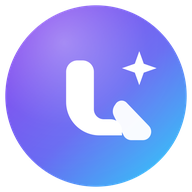
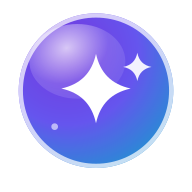
billing-revenue-protection-v109 - enterprise-release-v1094 - production-deployment-v1095 - unified-brand-identity-v1098 - orb-glow-identity-v1098-2

diff --git a/src/release/productionDeploymentReadiness.v1095.js b/src/release/productionDeploymentReadiness.v1095.js
@@ -1,0 +1,1 @@
+export function validateLandingDeployment(input={}){const routes=input.routes||['/','/pricing','/contact'];const assets=input.assets||['index.html','assets'];const errors=[];if(!routes.includes('/'))errors.push('HOME_ROUTE_MISSING');if(!assets.includes('index.html'))errors.push('INDEX_MISSING');if(input.secretExposure===true)errors.push('SECRET_EXPOSURE');return{engineVersion:'v1095',contractVersion:'2027.4',routesValidated:routes.length,assetsValidated:assets.length,widgetLoader:'READY',releaseHash:'REGISTERED',secretExposure:errors.includes('SECRET_EXPOSURE')?1:0,smokeTests:errors.length?'FAILED':'PASSED',rollbackAsset:'READY',releaseGate:errors.length?'BLOCKED':'OPEN',errors}}

diff --git a/src/release/landingObservability.v1096.js b/src/release/landingObservability.v1096.js
@@ -1,0 +1,1 @@
+export const LANDING_OBSERVABILITY={version:'v1096',contractVersion:'2027.5',signals:['pageAvailability','assetFailure','widgetLoaderFailure','formSubmissionFailure','publicApiFailure','releaseVersionMismatch'],availability:'HEALTHY',assetIntegrity:'PASSED',widgetLoader:'READY',releaseHealth:'HEALTHY'};export const evaluateLandingHealth=(x={})=>({status:(x.secretExposure||x.assetFailures||x.widgetLoaderFailures)?'DEGRADED':'HEALTHY',secretExposure:x.secretExposure||0});

diff --git a/src/release/enterpriseReleaseReadiness.v1094.js b/src/release/enterpriseReleaseReadiness.v1094.js
@@ -1,0 +1,2 @@
+export const LANDING_RELEASE={engineVersion:'v1094',contractVersion:'2027.3',releaseCandidate:'RC1',routes:'READY',assets:'READY',seo:'READY',widgetLoader:'READY',publicEnv:'READY',secretExposure:0,releaseGate:'OPEN'};
+export function validateLandingRelease(){return {...LANDING_RELEASE,status:'READY',failures:[]};}

diff --git a/src/release/billingRevenueProtection.v1097.js b/src/release/billingRevenueProtection.v1097.js
@@ -1,0 +1,1 @@
+export const billingRevenueProtection={version:"2027.6",pricingTransparency:"PASSED",starterSetup:"EXEMPT",paidSetupReplay:"BLOCKED",checkoutDisclosure:"READY",releaseHealth:"HEALTHY"};

diff --git a/docs/PLAYBOOK_CERTIFICATION_V1091.md b/docs/PLAYBOOK_CERTIFICATION_V1091.md
@@ -1,0 +1,8 @@
+# v1091 — Playbook Quality, Testing & Certification
+
+A release v1091 certifica os oito Playbooks Enterprise: Clinic, Aesthetics, Legal, Real Estate, Education, Ecommerce, SaaS e LeadyIA.
+
+Critérios obrigatórios: cobertura 100%, verticalLeakage 0, tenantIsolationFailures 0, contractViolations 0, widgetCompatibility COMPATIBLE e releaseGate OPEN.
+
+Dashboard: `/playbooks/certification`.
+Contrato: `2026.12`.

diff --git a/docs/UNIFIED_CONVERSATION_CONTRACT_V1092.md b/docs/UNIFIED_CONVERSATION_CONTRACT_V1092.md
@@ -1,0 +1,3 @@
+# Unified Conversation Contract v1092
+
+A Landing preserva compatibilidade com o contrato 2027.1 e não altera as páginas públicas.

diff --git a/docs/V1094-ENTERPRISE-RELEASE-CANDIDATE.md b/docs/V1094-ENTERPRISE-RELEASE-CANDIDATE.md
@@ -1,0 +1,3 @@
+# v1094 Landing
+
+Valida rotas, assets, SEO, carregador do widget, variáveis públicas e ausência de exposição de segredos.

diff --git a/docs/V1093-OMNICHANNEL-ENTERPRISE-CERTIFICATION.md b/docs/V1093-OMNICHANNEL-ENTERPRISE-CERTIFICATION.md
@@ -1,0 +1,3 @@
+# v1093 — Omnichannel Enterprise Certification
+
+Contract 2027.2. Six channels and eight playbooks certified.
